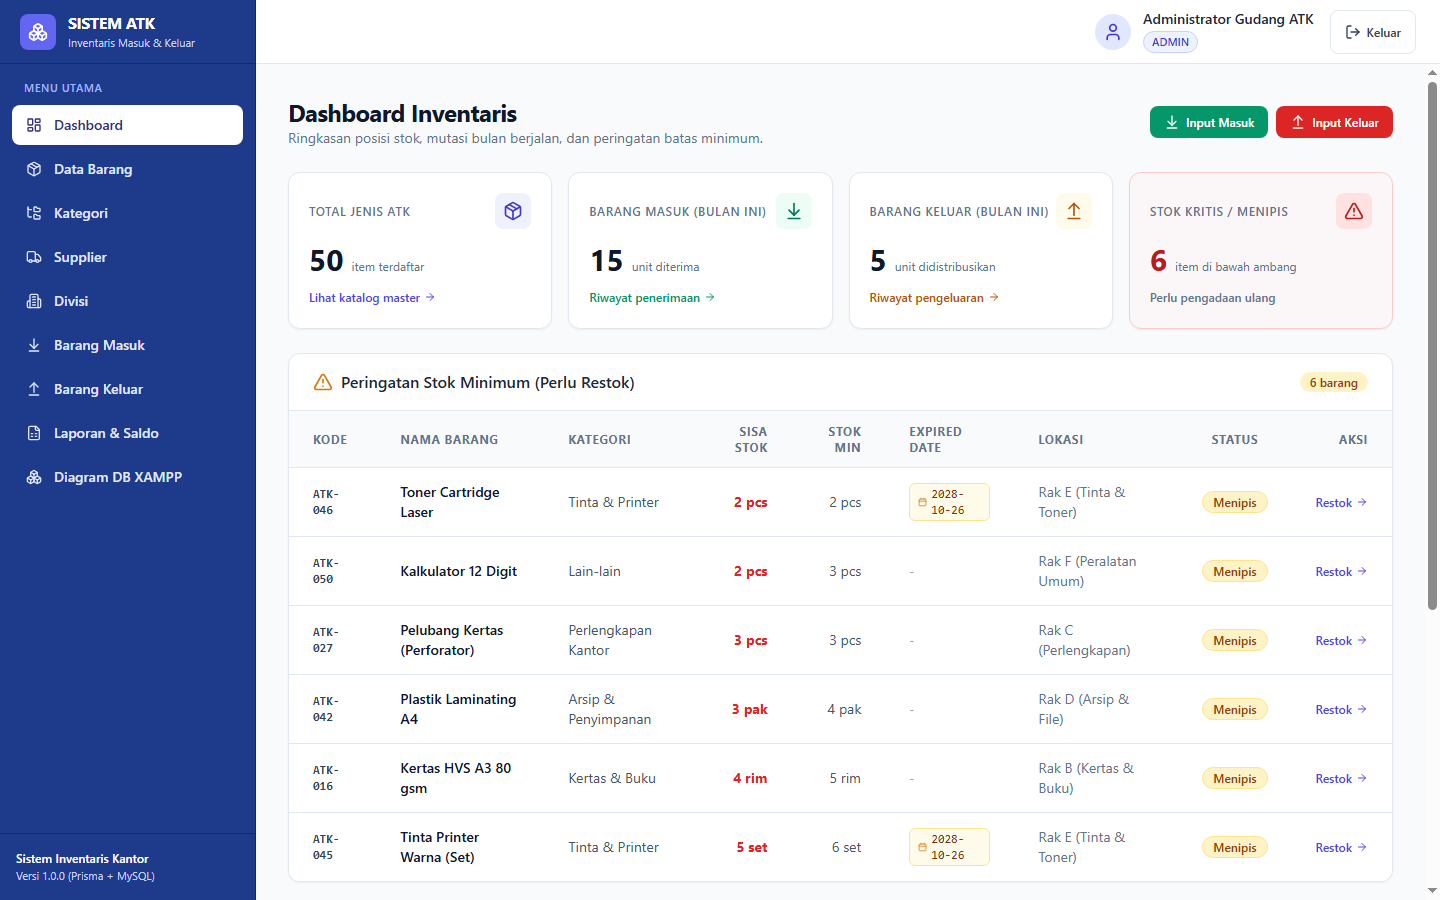
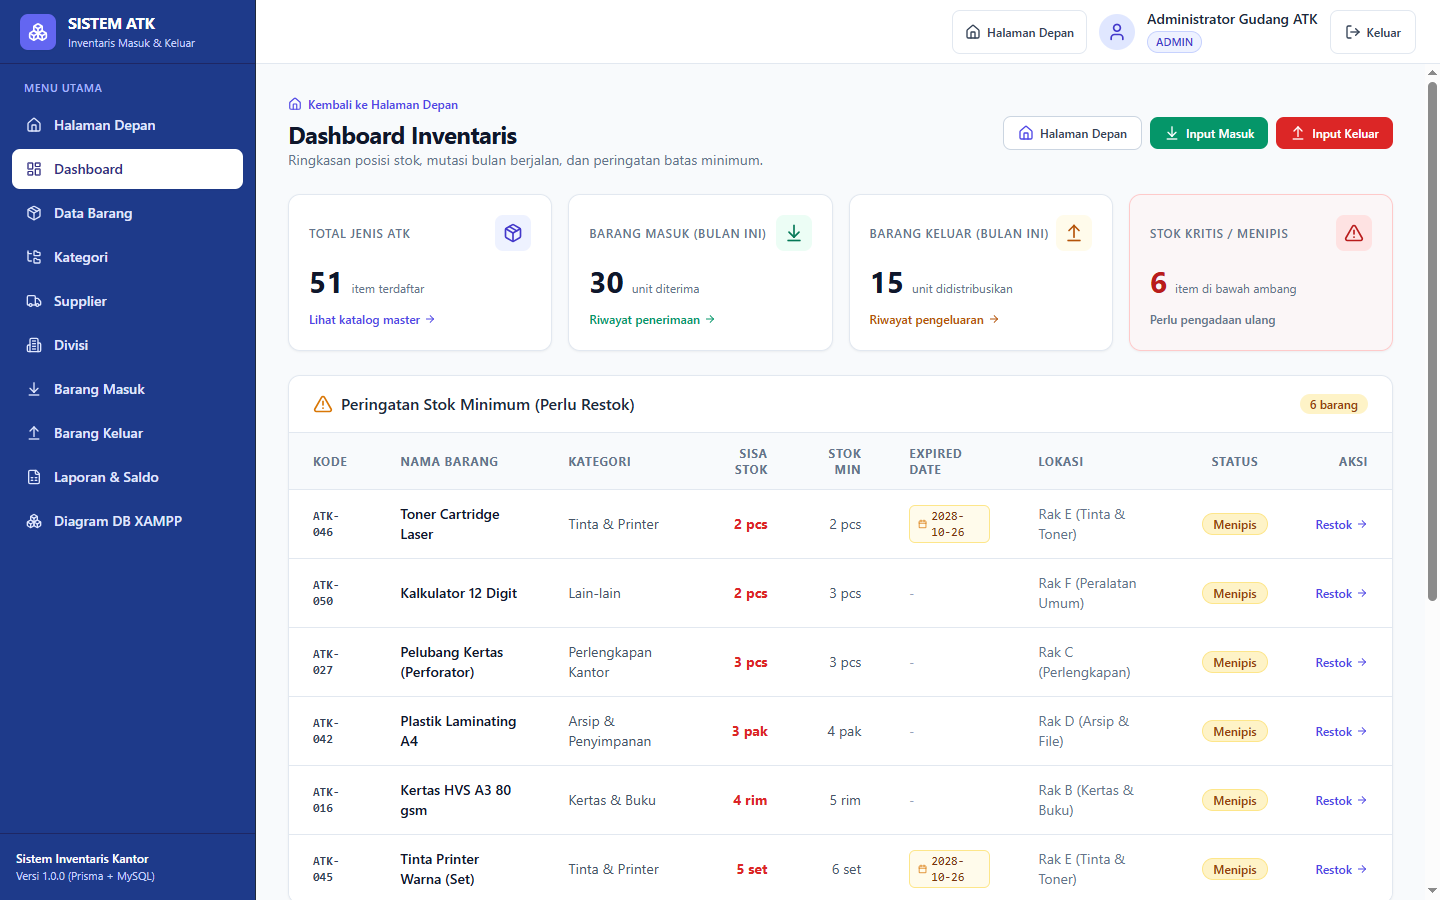
feat(nav): place landing page after login and add return to landing page button from dashboard

diff --git a/client/src/pages/dashboard/DashboardPage.tsx b/client/src/pages/dashboard/DashboardPage.tsx
@@ -12,6 +12,7 @@ import {
   ArrowRight,
   TrendingUp,
   Calendar,
+  Home,
 } from "lucide-react";
 import { useAuthStore } from "../../store/useAuthStore";
 
@@ -71,29 +72,48 @@ export const DashboardPage: React.FC = () => {
       {/* Page Header */}
       <div className="flex flex-col sm:flex-row sm:items-center sm:justify-between gap-4">
         <div>
+          <div className="flex items-center gap-2 mb-1.5">
+            <Link
+              to="/"
+              className="inline-flex items-center gap-1.5 text-xs font-semibold text-indigo-600 hover:text-indigo-800 transition-colors"
+            >
+              <Home className="h-3.5 w-3.5" />
+              <span>Kembali ke Halaman Depan</span>
+            </Link>
+          </div>
           <h1 className="text-2xl font-bold tracking-tight text-slate-900">Dashboard Inventaris</h1>
           <p className="text-sm text-slate-500">
             Ringkasan posisi stok, mutasi bulan berjalan, dan peringatan batas minimum.
           </p>
         </div>
-        {isAdmin() && (
-          <div className="flex items-center gap-2">
-            <Link
-              to="/barang-masuk/baru"
-              className="inline-flex items-center gap-1.5 rounded-lg bg-emerald-600 px-3.5 py-2 text-xs font-semibold text-white hover:bg-emerald-700 transition-colors"
-            >
-              <ArrowDownToLine className="h-4 w-4" />
-              <span>Input Masuk</span>
-            </Link>
-            <Link
-              to="/barang-keluar/baru"
-              className="inline-flex items-center gap-1.5 rounded-lg bg-red-600 px-3.5 py-2 text-xs font-semibold text-white hover:bg-red-700 transition-colors"
-            >
-              <ArrowUpFromLine className="h-4 w-4" />
-              <span>Input Keluar</span>
-            </Link>
-          </div>
-        )}
+        <div className="flex flex-wrap items-center gap-2">
+          <Link
+            to="/"
+            title="Kembali ke Halaman Depan Sistem"
+            className="inline-flex items-center gap-1.5 rounded-lg border border-slate-300 bg-white px-3.5 py-2 text-xs font-semibold text-slate-700 hover:bg-slate-50 hover:text-indigo-600 transition-colors shadow-xs"
+          >
+            <Home className="h-4 w-4 text-indigo-600" />
+            <span>Halaman Depan</span>
+          </Link>
+          {isAdmin() && (
+            <>
+              <Link
+                to="/barang-masuk/baru"
+                className="inline-flex items-center gap-1.5 rounded-lg bg-emerald-600 px-3.5 py-2 text-xs font-semibold text-white hover:bg-emerald-700 transition-colors"
+              >
+                <ArrowDownToLine className="h-4 w-4" />
+                <span>Input Masuk</span>
+              </Link>
+              <Link
+                to="/barang-keluar/baru"
+                className="inline-flex items-center gap-1.5 rounded-lg bg-red-600 px-3.5 py-2 text-xs font-semibold text-white hover:bg-red-700 transition-colors"
+              >
+                <ArrowUpFromLine className="h-4 w-4" />
+                <span>Input Keluar</span>
+              </Link>
+            </>
+          )}
+        </div>
       </div>
 
       {/* KPI Cards */}

diff --git a/client/src/components/layout/Navbar.tsx b/client/src/components/layout/Navbar.tsx
@@ -1,7 +1,7 @@
 import React from "react";
-import { LogOut, User as UserIcon, Menu } from "lucide-react";
+import { LogOut, User as UserIcon, Menu, Home } from "lucide-react";
 import { useAuthStore } from "../../store/useAuthStore";
-import { useNavigate } from "react-router-dom";
+import { useNavigate, Link } from "react-router-dom";
 
 interface NavbarProps {
   onToggleSidebar: () => void;
@@ -29,7 +29,16 @@ export const Navbar: React.FC<NavbarProps> = ({ onToggleSidebar }) => {
         <span className="text-sm font-semibold text-slate-700 md:hidden">Sistem ATK</span>
       </div>
 
-      <div className="flex items-center gap-4">
+      <div className="flex items-center gap-3">
+        <Link
+          to="/"
+          title="Kembali ke Halaman Depan"
+          className="flex min-h-[44px] items-center gap-1.5 rounded-lg border border-slate-200 px-3 py-2 text-xs font-medium text-slate-700 hover:bg-slate-50 hover:text-indigo-600 transition-colors focus:outline-none focus:ring-2 focus:ring-indigo-500"
+        >
+          <Home className="h-4 w-4" />
+          <span className="hidden sm:inline">Halaman Depan</span>
+        </Link>
+
         {user && (
           <div className="flex items-center gap-3">
             <div className="flex h-9 w-9 items-center justify-center rounded-full bg-indigo-100 text-indigo-700">

diff --git a/client/src/components/layout/Sidebar.tsx b/client/src/components/layout/Sidebar.tsx
@@ -11,6 +11,7 @@ import {
   FileSpreadsheet,
   X,
   Boxes,
+  Home,
 } from "lucide-react";
 
 interface SidebarProps {
@@ -20,6 +21,7 @@ interface SidebarProps {
 
 export const Sidebar: React.FC<SidebarProps> = ({ isOpen, onClose }) => {
   const navItems = [
+    { label: "Halaman Depan", to: "/", icon: Home },
     { label: "Dashboard", to: "/dashboard", icon: LayoutDashboard },
     { label: "Data Barang", to: "/barang", icon: Package },
     { label: "Kategori", to: "/kategori", icon: FolderTree },

diff --git a/client/src/pages/auth/LoginPage.tsx b/client/src/pages/auth/LoginPage.tsx
@@ -37,7 +37,7 @@ export const LoginPage: React.FC = () => {
 
       const { token, user } = response.data.data;
       login(token, user);
-      navigate("/dashboard");
+      navigate("/");
     } catch (err: any) {
       if (err.response?.data?.error?.message) {
         setErrorMsg(err.response.data.error.message);
